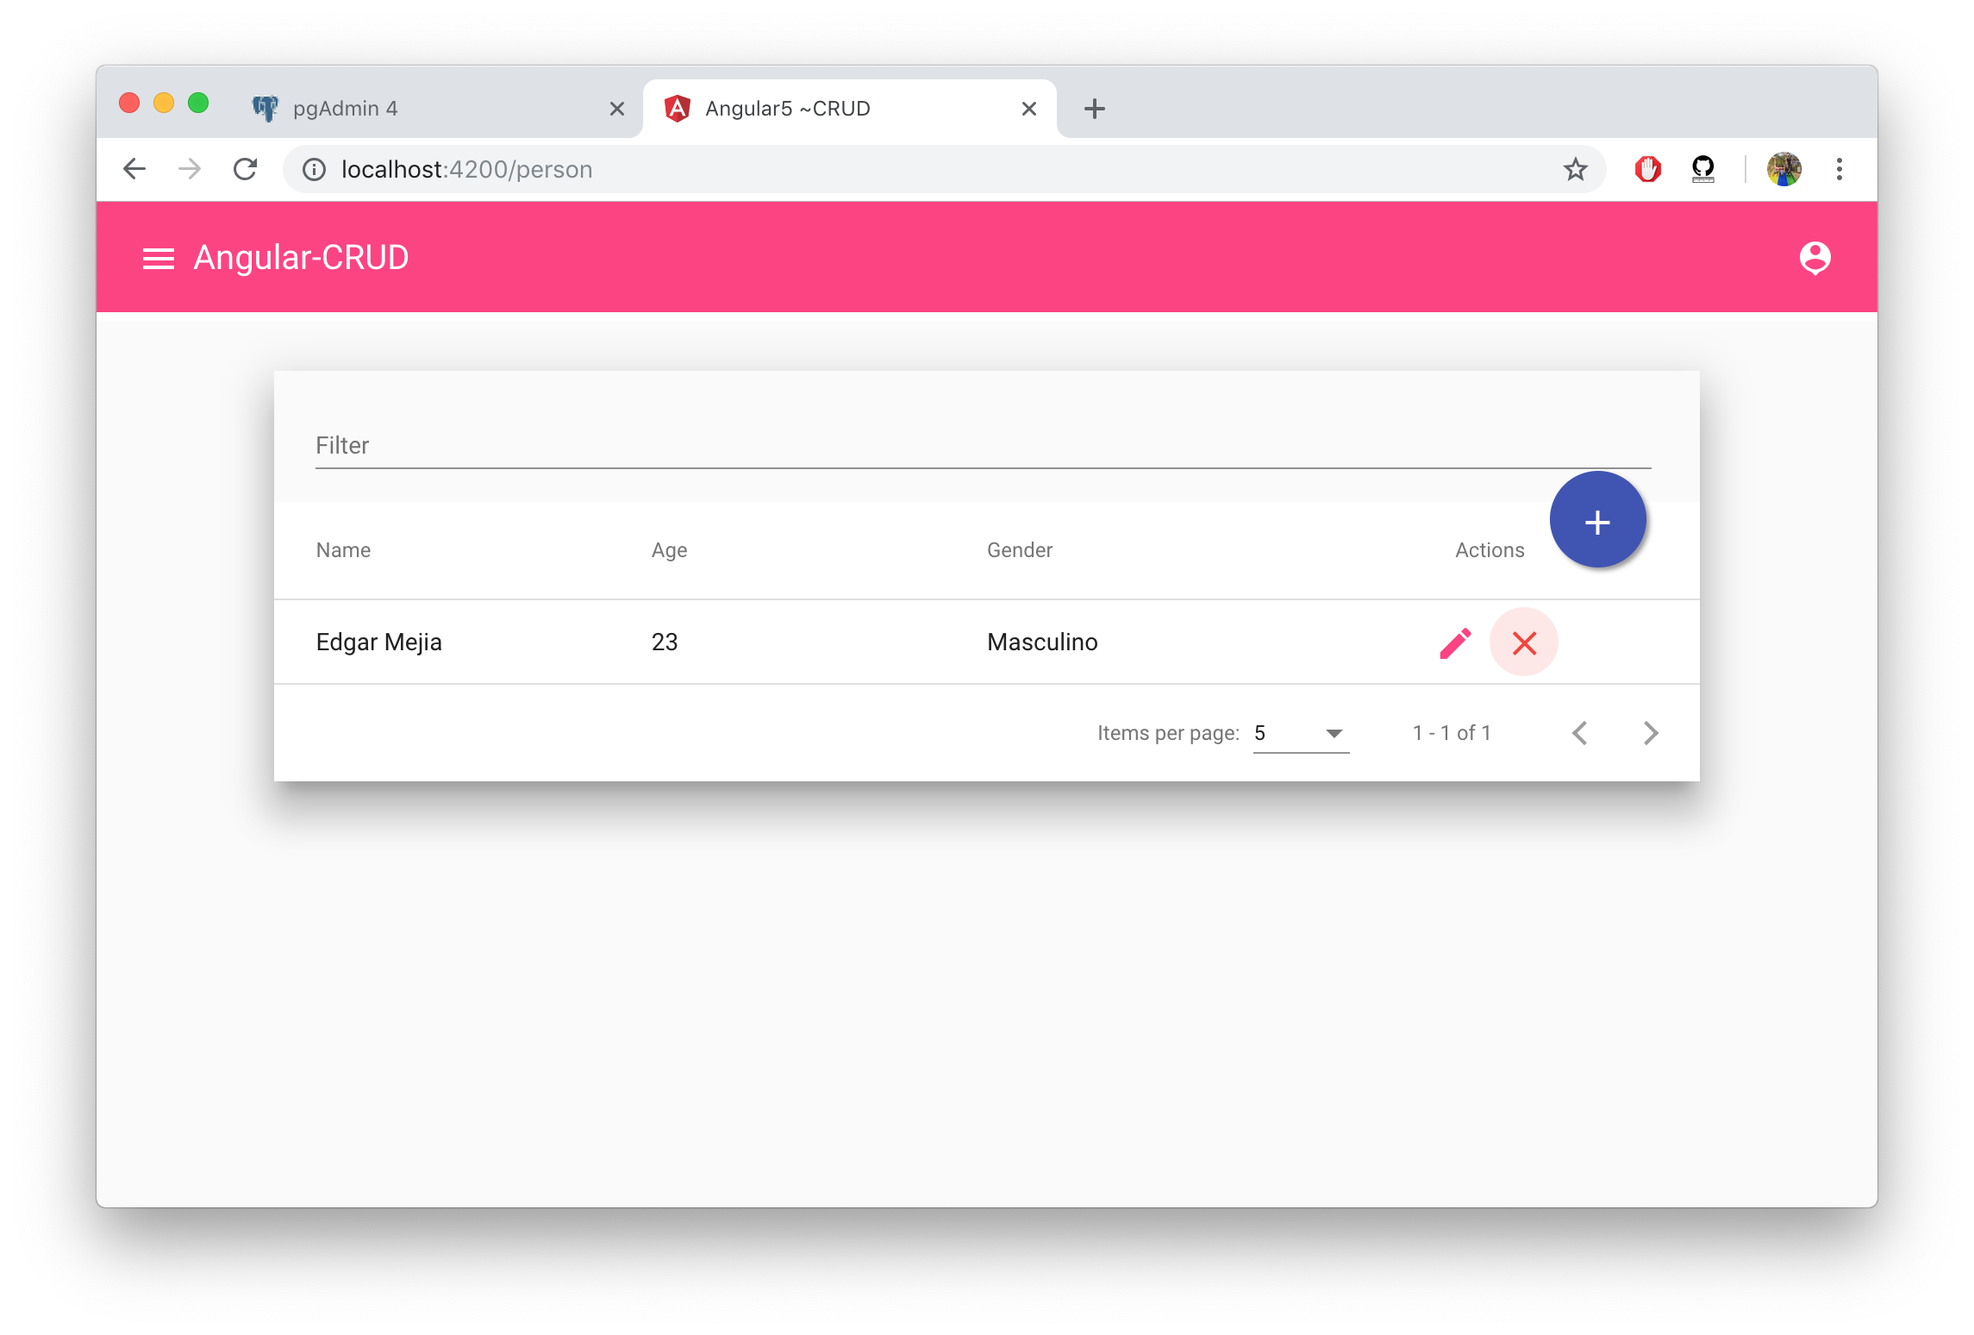
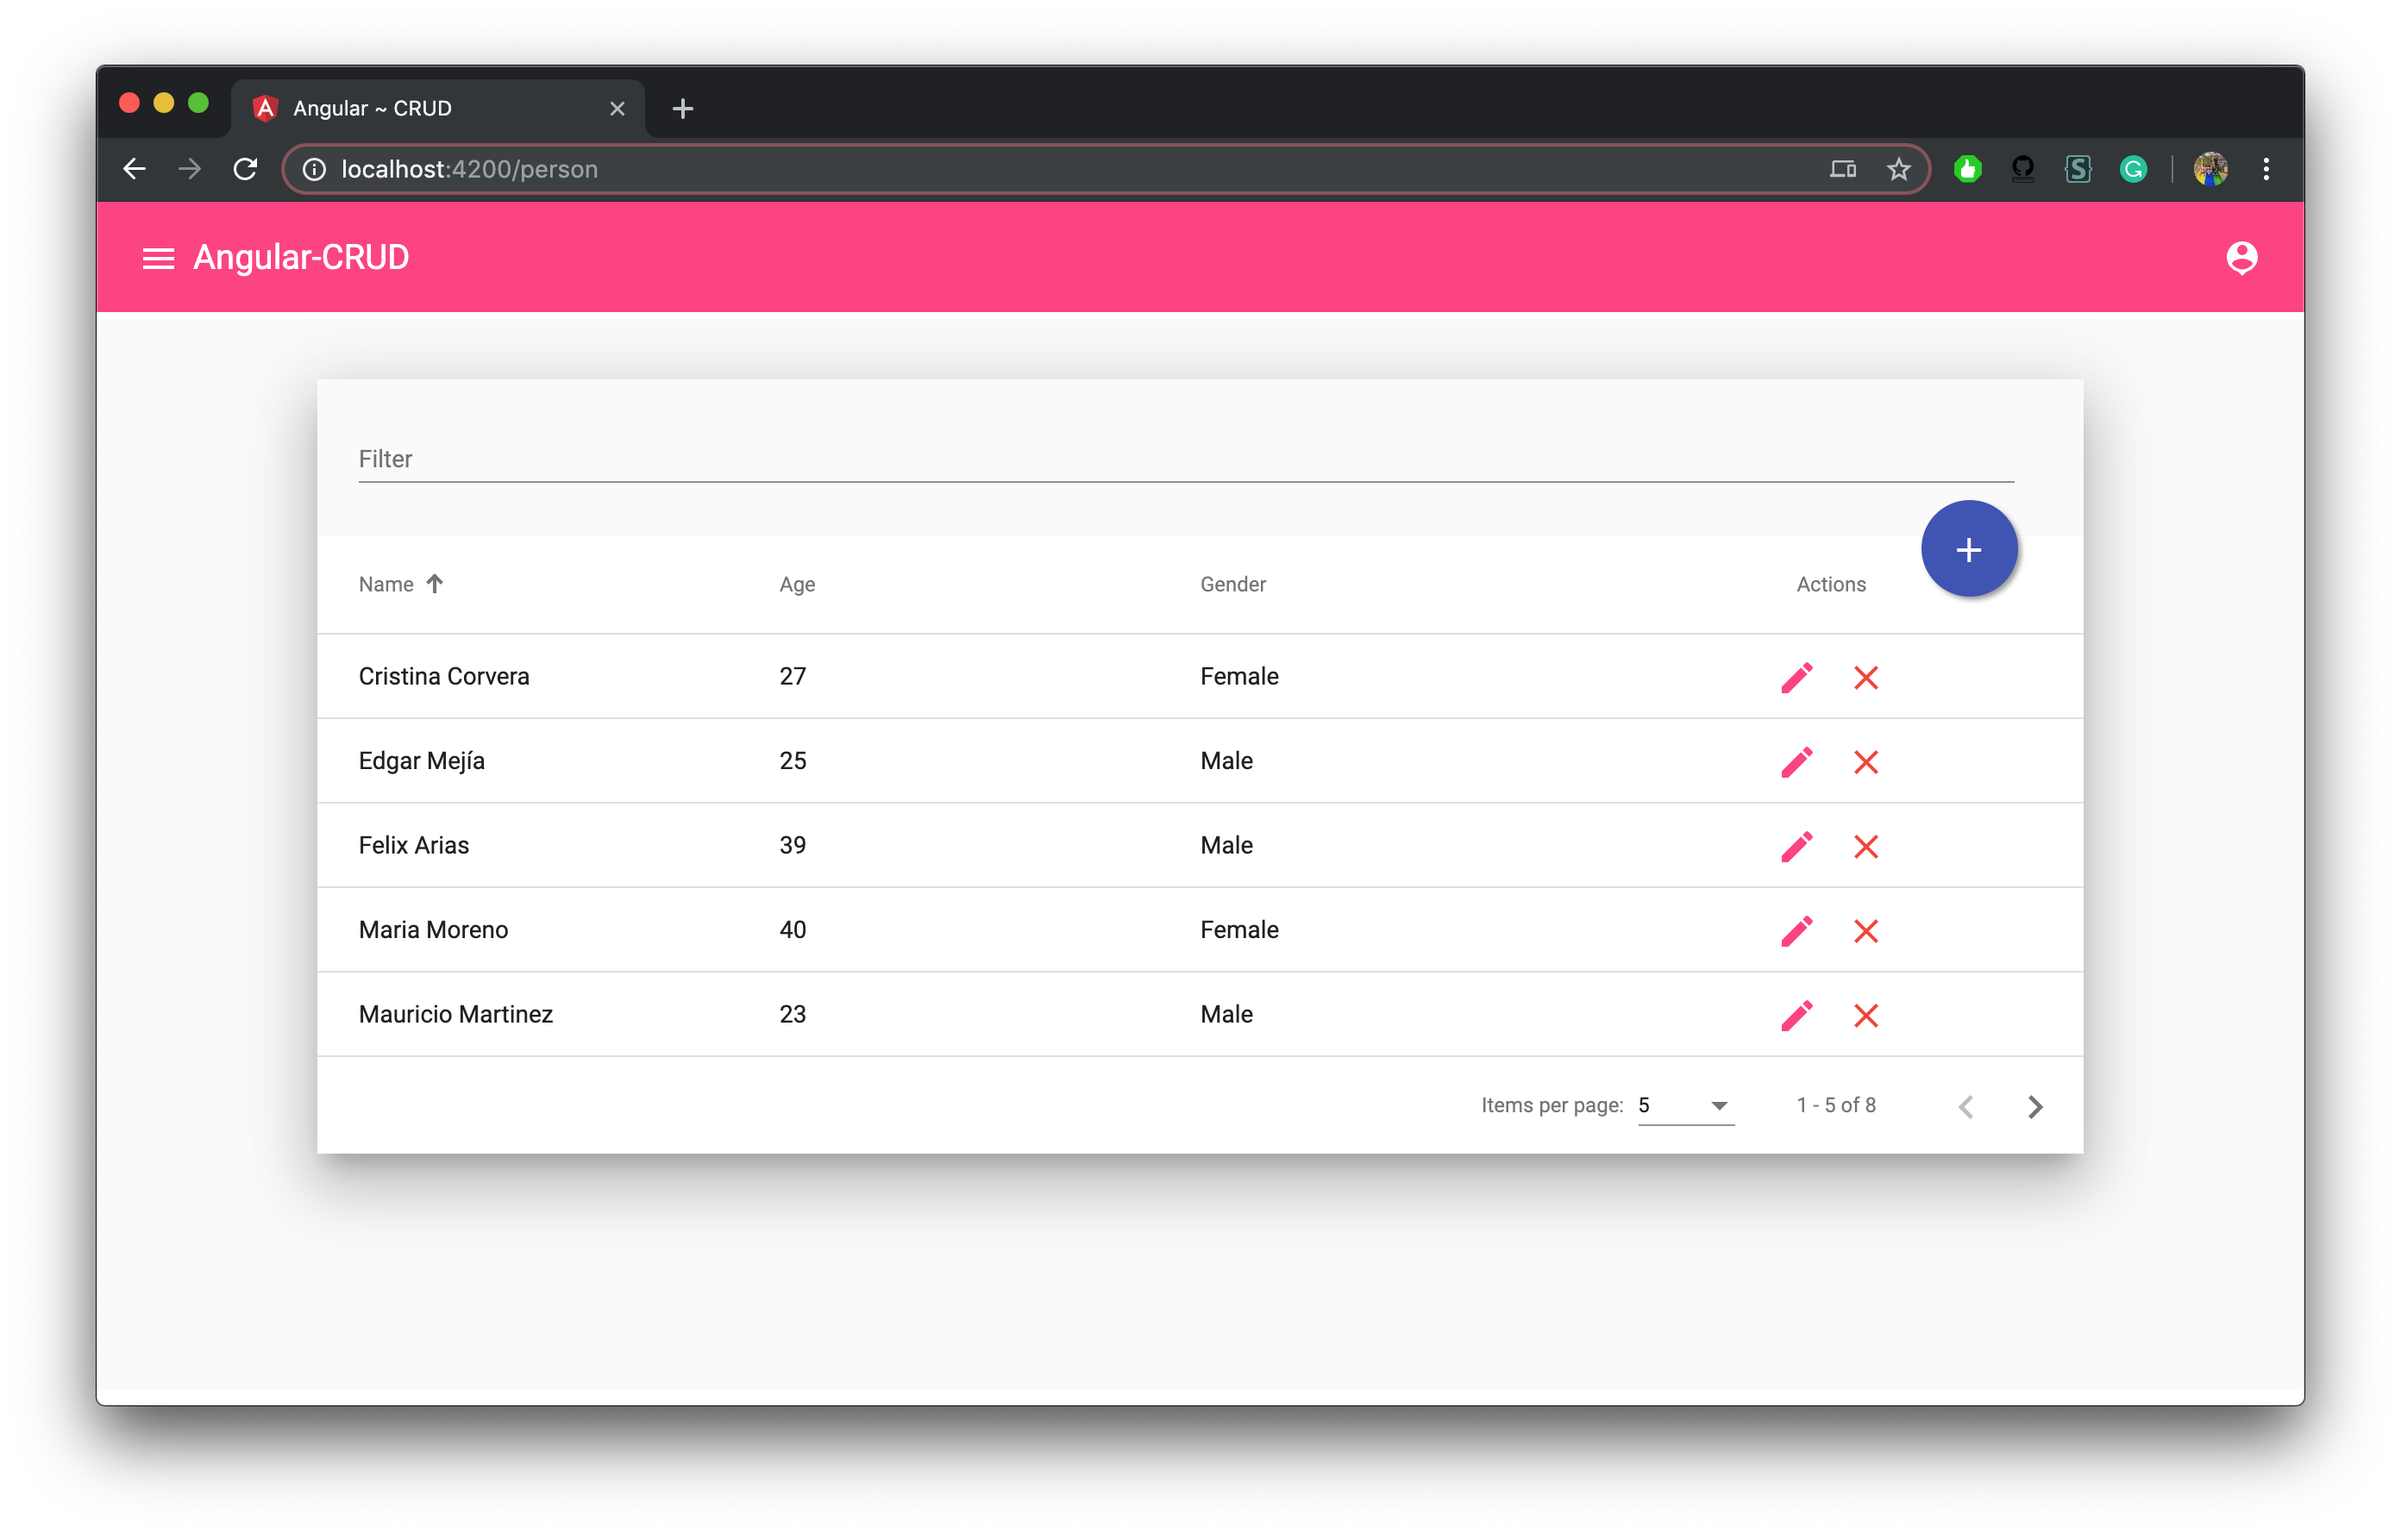
Fix grid pagination, search & sort.

diff --git a/src/app/modules/person/person.component.ts b/src/app/modules/person/person.component.ts
@@ -99,6 +99,7 @@ export class PersonComponent implements AfterViewInit {
     // GET PERSONS
     getData() {
         this.sort.sortChange.subscribe(() => this.paginator.pageIndex = 0);
+
         merge(this.sort.sortChange, this.paginator.page)
         .pipe(
             startWith({}),
@@ -106,6 +107,7 @@ export class PersonComponent implements AfterViewInit {
                 this.isLoading = true;
                 return this.personService!
                 .getList(
+                    this.sort.active,
                     this.sort.direction,
                     this.pageSize,
                     this.page,

diff --git a/src/app/services/person.service.ts b/src/app/services/person.service.ts
@@ -23,8 +23,9 @@ export class PersonService {
         'x-access-token': localStorage.getItem('token')
     });
 
-    getList(order: string, pageSize: number, page: number, search: string) {
+    getList(sortActive: string, order: string, pageSize: number, page: number, search: string) {
         let params = new HttpParams();
+        params = params.append('active', sortActive);
         params = params.append('order', order);
         params = params.append('search', search);
         params = params.append('pageSize', pageSize.toString());

diff --git a/src/app/modules/person/person.component.html b/src/app/modules/person/person.component.html
@@ -17,8 +17,8 @@
     matSort matSortActive="name" matSortDisableClear matSortDirection="asc">
 
         <ng-container matColumnDef="name">
-            <mat-header-cell *matHeaderCellDef>Name</mat-header-cell>
-            <mat-cell *matCellDef="let row">{{ row.name }}</mat-cell>
+            <mat-header-cell *matHeaderCellDef mat-sort-header>Name</mat-header-cell>
+            <mat-cell *matCellDef="let row">{{ row.first_name + ' ' + row.last_name }}</mat-cell>
         </ng-container>
 
         <ng-container matColumnDef="age">
